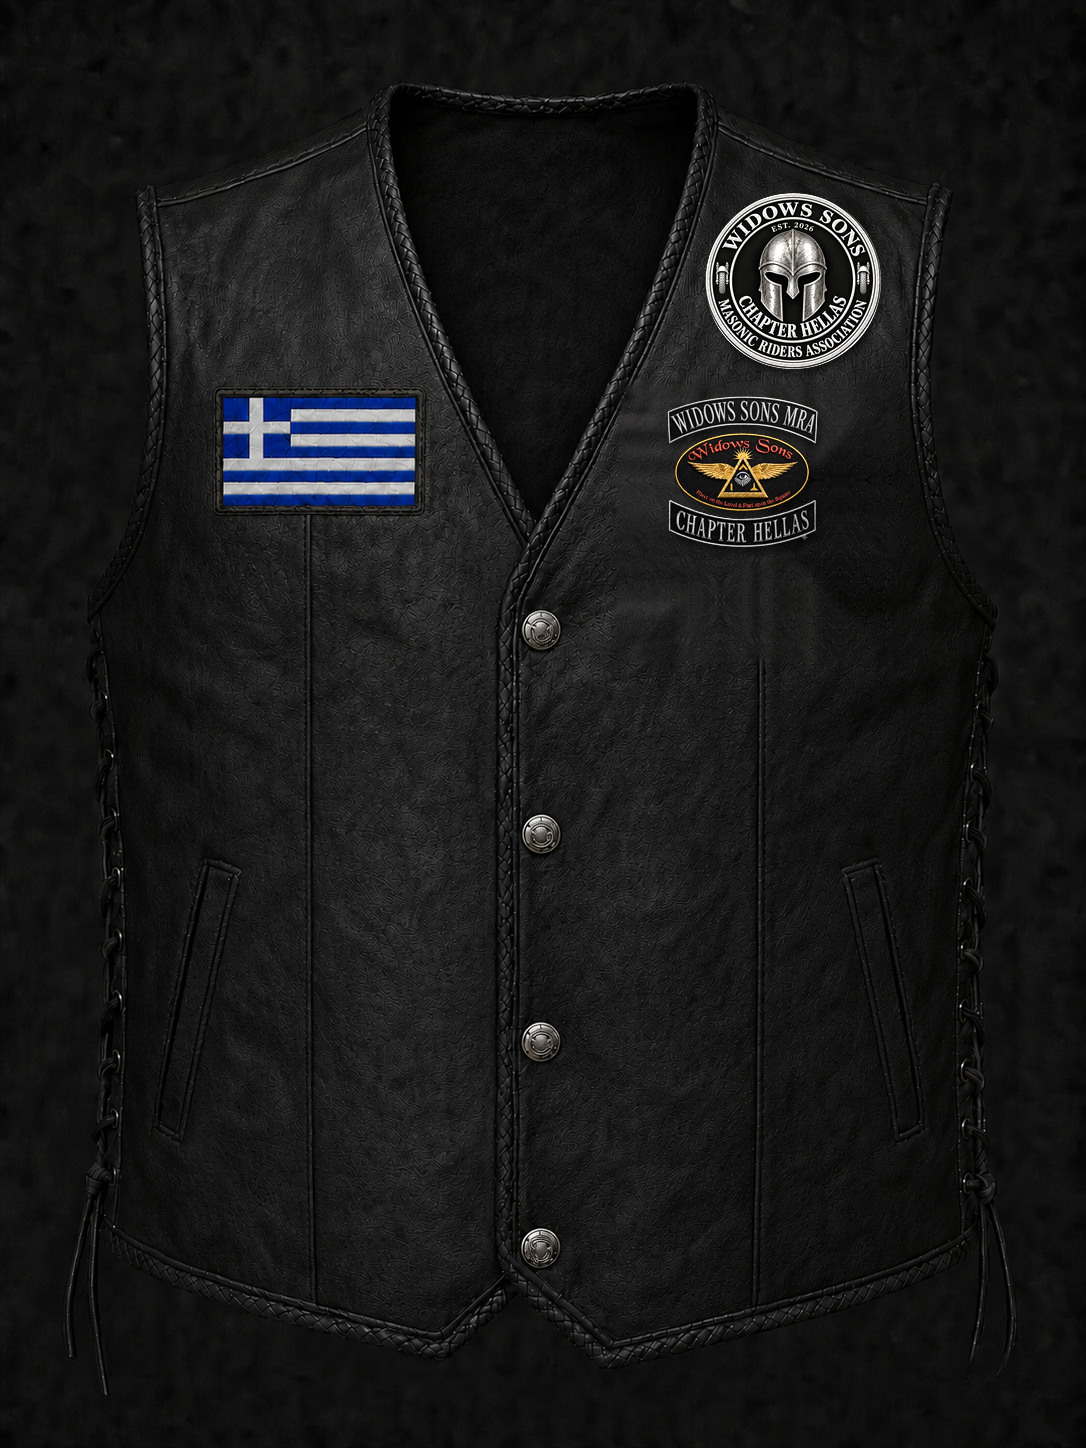
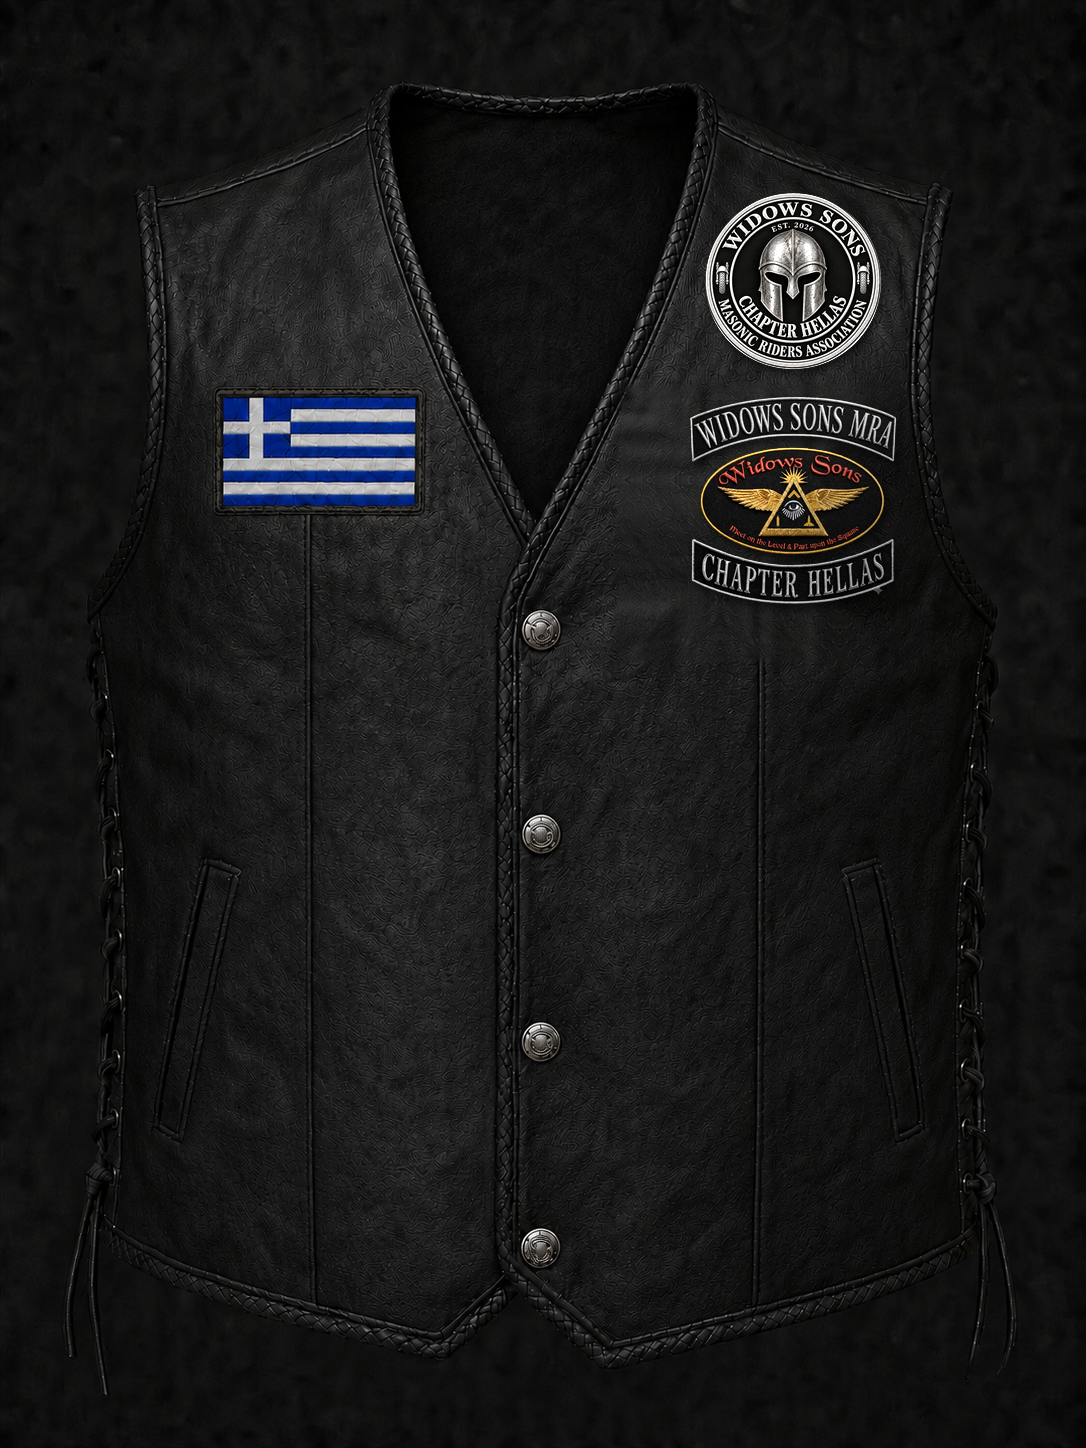
Move front emblem 2cm right; size capped at ~8.2cm to fit
Requested 11x11cm shifted 2cm right, but the panel is only ~11.2cm
wide at its narrowest (the emblem's own top edge), and +2cm of shift
plus +5cm of extra width doesn't fit without crossing into the
armhole opening. Per direction: kept the 2cm shift, sized to the
largest square (~8.2cm) that still clears the armhole braid there.
Seal patch position is unaffected (frozen independently of the
emblem's center so it doesn't drag along).

Claude-Session: https://claude.ai/code/session_017sXuPgmTSn4iwGBeK1jvhJ

Changed region(s): [[0.6077, 0.2486, 0.8204, 0.4351]]

diff --git a/index.html b/index.html
@@ -60,7 +60,7 @@
       <div class="toggle"><div class="toggle-copy"><label>Honorary</label><small id="honoraryStatus">Visible</small></div><button class="switch on" id="honoraryToggle" type="button" role="switch" aria-checked="true" aria-label="Show Honorary patch"></button></div>
       <div class="field subfield" id="honoraryField"><label for="honoraryType">Honorary Type</label><select id="honoraryType"><option>Honorary</option><option>Most Honorary</option></select></div>
       <div class="toggle"><div class="toggle-copy"><label>Founder</label><small id="founderStatus">Visible</small></div><button class="switch on" id="founderToggle" type="button" role="switch" aria-checked="true" aria-label="Show Founder patch"></button></div>
-      <div class="specs"><div><span>Flag</span><strong>11 × 6 cm</strong></div><div><span>Name patches</span><strong>11 × 3 cm</strong></div><div><span>Front emblem</span><strong>6 × 6 cm</strong></div><div><span>Seal patch</span><strong>7 cm ⌀</strong></div><div><span>Vest size</span><strong>XL · 58 cm</strong></div></div>
+      <div class="specs"><div><span>Flag</span><strong>11 × 6 cm</strong></div><div><span>Name patches</span><strong>11 × 3 cm</strong></div><div><span>Front emblem</span><strong>8.2 × 8.2 cm</strong></div><div><span>Seal patch</span><strong>7 cm ⌀</strong></div><div><span>Vest size</span><strong>XL · 58 cm</strong></div></div>
     </aside>
     <main>
       <header><div><p class="eyebrow">LIVE PREVIEW</p><h2 id="heading">President</h2></div><div class="badge active" id="trimBadge">Silver trim</div></header>
